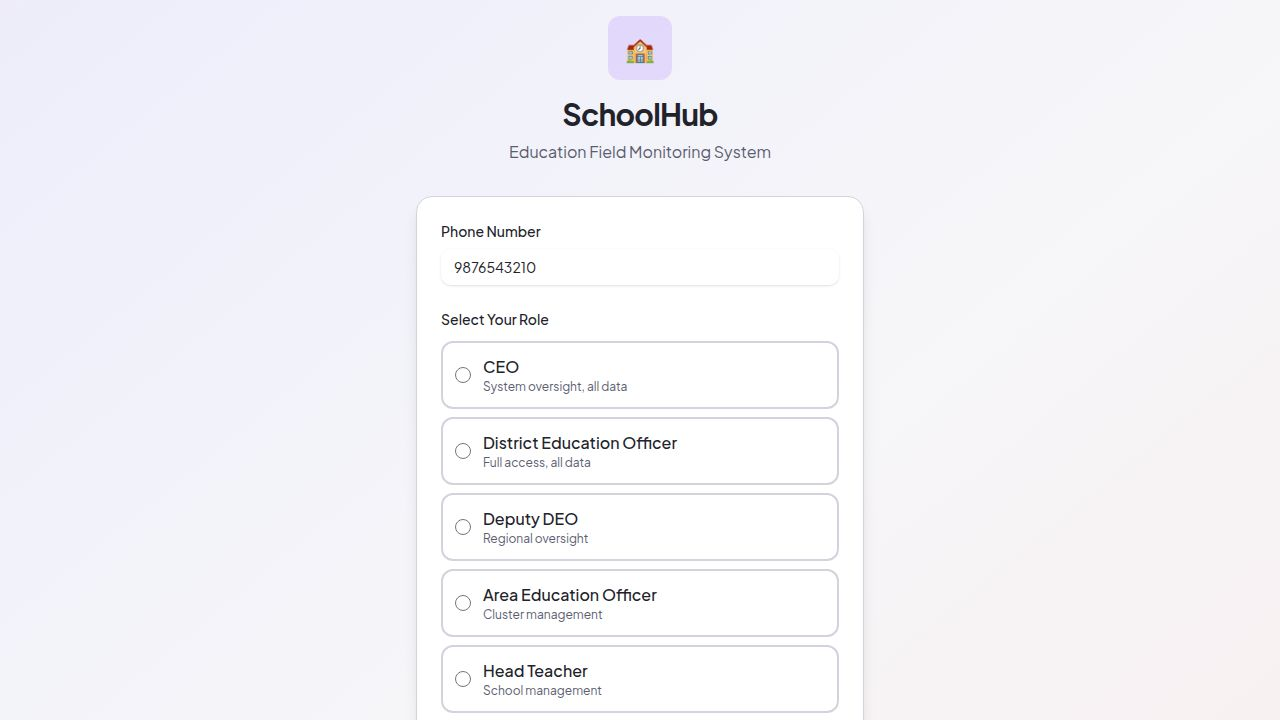
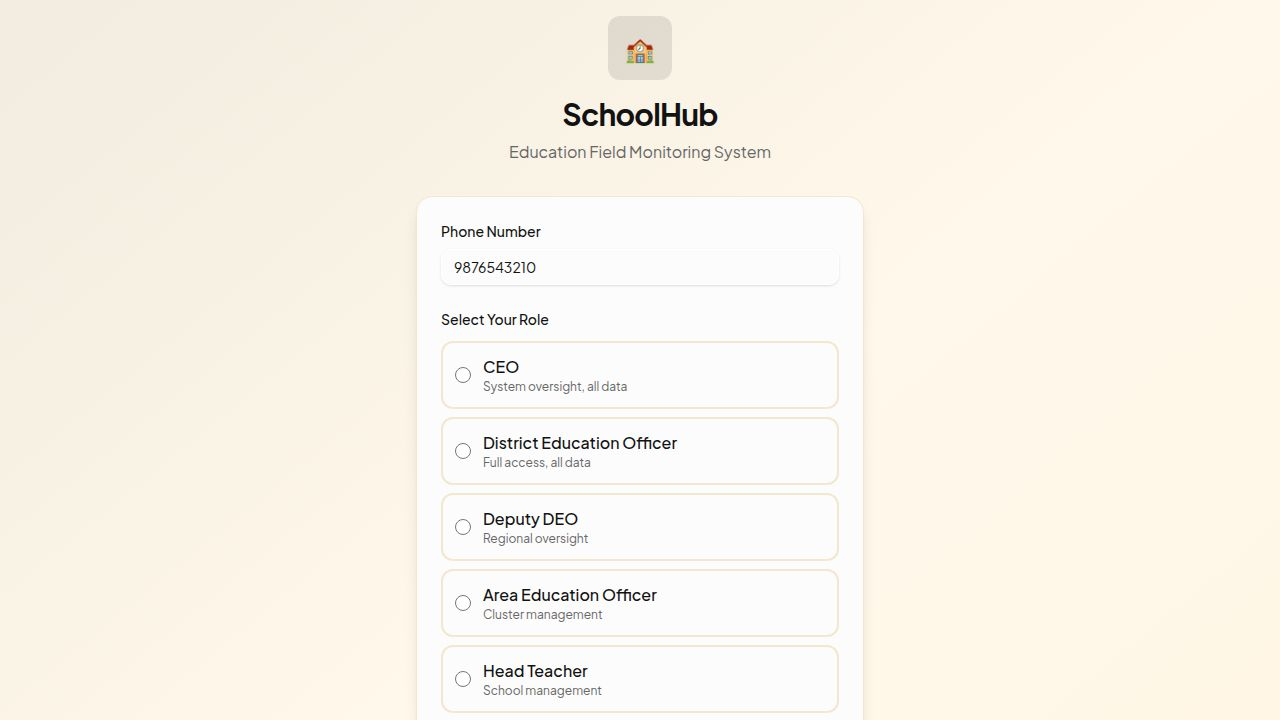
Update website color scheme and meta tags for a modern aesthetic
Adjusted CSS variables to implement a beige and black color palette with gold accents and updated meta tags in index.html for improved SEO and social sharing.

Replit-Commit-Author: Agent
Replit-Commit-Session-Id: f2f55bed-8a43-4839-a151-28d49d7eb082
Replit-Commit-Checkpoint-Type: full_checkpoint
Replit-Commit-Event-Id: 60ed23cd-80da-4ea1-bca8-aa9972de31ed
Replit-Commit-Screenshot-Url: https://storage.googleapis.com/screenshot-production-us-central1/2d319c59-f84f-4e22-9112-e6d31a7072fb/f2f55bed-8a43-4839-a151-28d49d7eb082/eZq5lLH
Replit-Helium-Checkpoint-Created: true

diff --git a/client/src/index.css b/client/src/index.css
@@ -53,55 +53,55 @@
   --color-destructive-border: var(--destructive-border);
 }
 
-/* LIGHT MODE - Modern Premium Design */
+/* LIGHT MODE - Modern Beige & Black Luxury Design */
 :root {
-  --button-outline: rgba(167, 51, 255, 0.08);
-  --badge-outline: rgba(167, 51, 255, 0.05);
+  --button-outline: rgba(17, 17, 17, 0.08);
+  --badge-outline: rgba(17, 17, 17, 0.05);
   --opaque-button-border-intensity: -4;
   --elevate-1: rgba(0, 0, 0, 0.02);
   --elevate-2: rgba(0, 0, 0, 0.05);
 
-  /* Modern Vibrant Color Palette */
-  --background: 240 20% 97%;
-  --foreground: 240 10% 15%;
-  --border: 240 15% 85%;
-  --card: 0 0% 100%;
-  --card-foreground: 240 10% 15%;
-  --card-border: 240 15% 85%;
+  /* Beige, Black & Gold Luxury Palette */
+  --background: 40 100% 96%;
+  --foreground: 0 0% 7%;
+  --border: 40 60% 88%;
+  --card: 0 0% 99%;
+  --card-foreground: 0 0% 7%;
+  --card-border: 40 50% 90%;
   
-  --sidebar: 240 25% 94%;
-  --sidebar-foreground: 240 10% 15%;
-  --sidebar-border: 240 15% 85%;
-  --sidebar-primary: 262 100% 50%;
-  --sidebar-primary-foreground: 0 0% 100%;
-  --sidebar-accent: 15 100% 50%;
-  --sidebar-accent-foreground: 0 0% 100%;
-  --sidebar-ring: 262 100% 50%;
+  --sidebar: 40 100% 96%;
+  --sidebar-foreground: 0 0% 7%;
+  --sidebar-border: 40 60% 88%;
+  --sidebar-primary: 0 0% 7%;
+  --sidebar-primary-foreground: 40 100% 96%;
+  --sidebar-accent: 45 96% 50%;
+  --sidebar-accent-foreground: 0 0% 7%;
+  --sidebar-ring: 0 0% 7%;
   
   --popover: 0 0% 100%;
-  --popover-foreground: 240 10% 15%;
-  --popover-border: 240 15% 85%;
+  --popover-foreground: 0 0% 7%;
+  --popover-border: 40 60% 90%;
   
-  --primary: 262 100% 50%;
-  --primary-foreground: 0 0% 100%;
-  --secondary: 262 30% 92%;
-  --secondary-foreground: 240 10% 15%;
+  --primary: 0 0% 7%;
+  --primary-foreground: 40 100% 96%;
+  --secondary: 40 100% 93%;
+  --secondary-foreground: 0 0% 7%;
   
-  --muted: 240 30% 88%;
-  --muted-foreground: 240 10% 40%;
+  --muted: 40 60% 88%;
+  --muted-foreground: 0 0% 40%;
   
-  --accent: 15 100% 50%;
-  --accent-foreground: 0 0% 100%;
+  --accent: 45 96% 50%;
+  --accent-foreground: 0 0% 7%;
   
   --destructive: 0 84% 60%;
   --destructive-foreground: 0 0% 100%;
   
   --input: 0 0% 100%;
-  --ring: 262 100% 50%;
-  --chart-1: 262 100% 50%;
-  --chart-2: 15 100% 50%;
-  --chart-3: 45 96% 50%;
-  --chart-4: 190 100% 45%;
+  --ring: 0 0% 7%;
+  --chart-1: 0 0% 7%;
+  --chart-2: 45 96% 50%;
+  --chart-3: 38 100% 50%;
+  --chart-4: 200 100% 50%;
   --chart-5: 280 100% 50%;
 
   --font-sans: 'Plus Jakarta Sans', 'Segoe UI', -apple-system, sans-serif;

diff --git a/client/index.html b/client/index.html
@@ -4,14 +4,14 @@
     <meta charset="UTF-8" />
     <meta name="viewport" content="width=device-width, initial-scale=1.0, maximum-scale=1" />
 
-    <meta property="og:title" content="SchoolHub - AEO Activity Management" />
-    <meta property="og:description" content="AEO Activity Management System - Plan visits, conduct HOTS mentoring, monitor schools, and log activities with comprehensive rubrics and auditing." />
+    <meta property="og:title" content="SchoolHub" />
+    <meta property="og:description" content="School monitoring and activity management platform with comprehensive data requests, visit planning, and activity tracking for education administrators and teachers." />
     <meta property="og:type" content="website" />
     <meta property="og:image" content="https://replit.com/public/images/opengraph.png" />
     <meta name="twitter:card" content="summary_large_image" />
     <meta name="twitter:site" content="@replit" />
-    <meta name="twitter:title" content="SchoolHub - AEO Activity Management" />
-    <meta name="twitter:description" content="AEO Activity Management System - Plan visits, conduct HOTS mentoring, monitor schools, and log activities with comprehensive rubrics and auditing." />
+    <meta name="twitter:title" content="SchoolHub" />
+    <meta name="twitter:description" content="School monitoring and activity management platform with comprehensive data requests, visit planning, and activity tracking for education administrators and teachers." />
     <meta name="twitter:image" content="https://replit.com/public/images/opengraph.png" />
 
     <link rel="icon" type="image/png" href="/favicon.png" />
